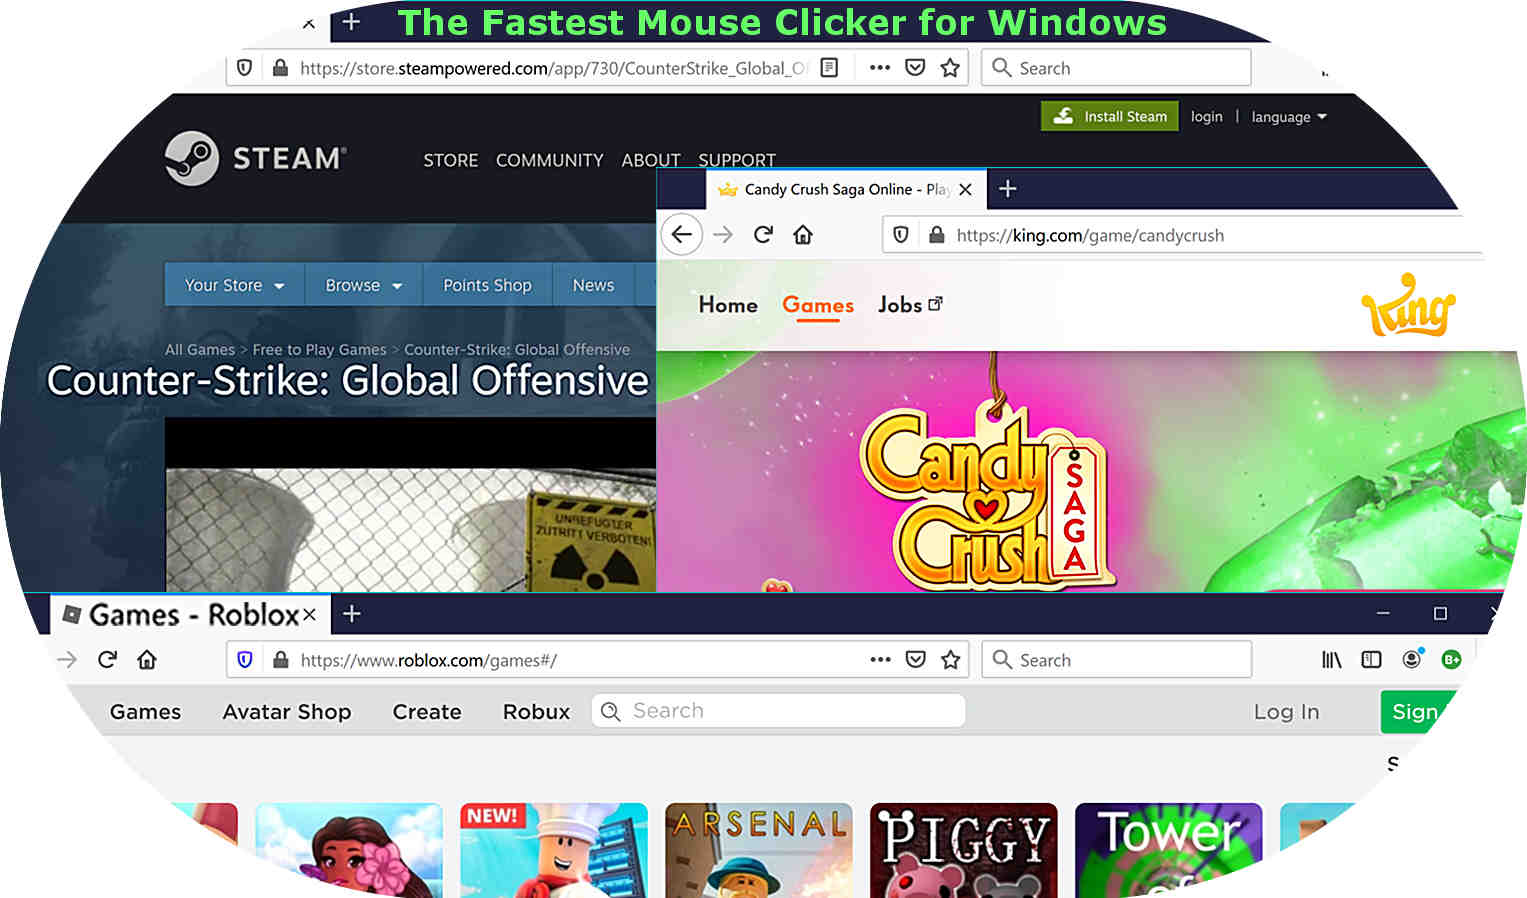
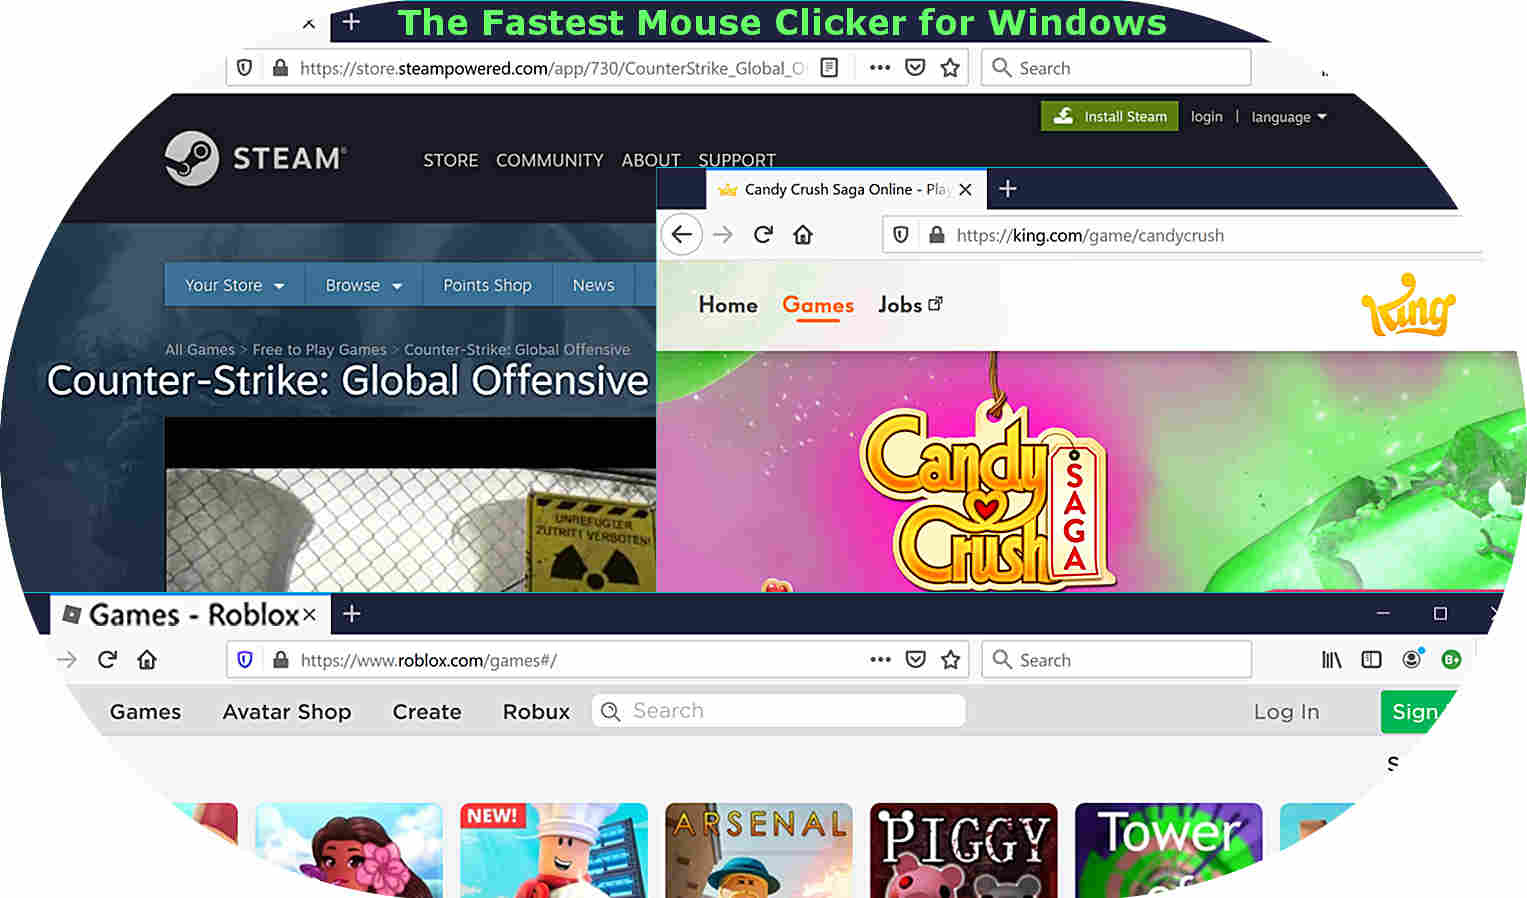
upd screenshots for v2.5.4.0

diff --git a/docs/README.md b/docs/README.md
@@ -173,27 +173,27 @@ and [Gitlab](https://gitlab.com/mashanovedad/The-Fastest-Mouse-Clicker-for-Windo
 
 ## Screenshots
 
-### For version 2.5.3.3. The latest version is 2.5.4.0
+### For the latest version 2.5.4.0
 
-* The Fastest Mouse Clicker for Windows version 2.5.x.x: introduce the "Run group app" button.
+* The Fastest Mouse Clicker for Windows version 2.5.4.0: introduce the "Run group app" button.
 
-![The Fastest Mouse Clicker for Windows version 2.5.x.x: introduce the "Run group app" button](screenshots_new/v2.5.3.3/TFMCfW_2_5_3_3w_s1_1322x986.jpg?raw=true)
+![The Fastest Mouse Clicker for Windows version 2.5.4.0: introduce the "Run group app" button](screenshots_new/v2.5.4.0/TFMCfW_2_5_4_0w_s1_1322x986.jpg?raw=true)
 
-* The Fastest Mouse Clicker for Windows version 2.5.x.x: the brand new Group App in details.
+* The Fastest Mouse Clicker for Windows version 2.5.4.0: the brand new Group App in details.
 
-![The Fastest Mouse Clicker for Windows version 2.5.x.x: the brand new Group App in details](screenshots_new/v2.5.3.3/TFMCfW_2_5_3_3w_s1h_1322x986.jpg?raw=true)
+![The Fastest Mouse Clicker for Windows version 2.5.4.0: the brand new Group App in details](screenshots_new/v2.5.4.0/TFMCfW_2_5_4_0w_s1h_1322x986.jpg?raw=true)
 
-* The Fastest Mouse Clicker for Windows version 2.5.x.x: running under Wine 4.0.2/Linux(CentOS 6).
+* The Fastest Mouse Clicker for Windows version 2.5.4.0: running under Wine 4.0.2/Linux(CentOS 6).
 
-![The Fastest Mouse Clicker for Windows version 2.5.x.x: running under Wine 4.0.2/Linux(CentOS 6)](screenshots_new/v2.5.3.3/TFMCfW_2_5_3_3w_s1w_1322x986.jpg?raw=true)
+![The Fastest Mouse Clicker for Windows version 2.5.4.0: running under Wine 4.0.2/Linux(CentOS 6)](screenshots_new/v2.5.4.0/TFMCfW_2_5_4_0w_s1w_1322x986.jpg?raw=true)
 
 * The Fastest Mouse Clicker for Windows version pre-2.5.x.x family: what's old but important.
 
-![The Fastest Mouse Clicker for Windows version pre-2.5.x.x family: what's old but important](screenshots_new/v2.5.3.3/TFMCfW_2_5_3_3w_s2_1322x986.jpg?raw=true)
+![The Fastest Mouse Clicker for Windows version pre-2.5.x.x family: what's old but important](screenshots_new/v2.5.4.0/TFMCfW_2_5_4_0w_s2_1322x986.jpg?raw=true)
 
-* The Fastest Mouse Clicker for Windows version 2.5.x.x: completely hand-made art by the clicker application.
+* The Fastest Mouse Clicker for Windows version 2.5.4.0: completely hand-made art by the clicker application.
 
-![The Fastest Mouse Clicker for Windows version 2.5.x.x: completely hand-made art by the clicker application](screenshots_new/v2.5.3.3/TFMCfW_2_5_3_3w_a1_1322x986.jpg?raw=true)
+![The Fastest Mouse Clicker for Windows version 2.5.4.0: completely hand-made art by the clicker application](screenshots_new/v2.5.4.0/TFMCfW_2_5_4_0w_a1_1322x986.jpg?raw=true)
 
 ## Partners
 
